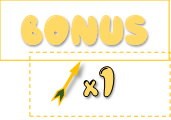
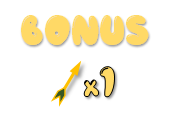
бонусы за уровень

diff --git a/index.js b/index.js
@@ -8,10 +8,12 @@ g_process=function(){};
 var path=[[-10,170],[120,170],[190,200],[215,240],[180,270],[90,280],[50,330],[40,410],[40,540],[70,630],[140,680],[220,700],[295,700],[360,670],[400,620],[420,550],[430,420],[410,310],[350,270],[300,260],[280,235],[290,200],[350,170],[470,170]];
 
 
-var l_info=[[10,20,3,0],[12,22,3,0.02],[14,24,3,0.04],[16,26,3,0.06],[18,28,3,0.08],[20,30,3,0.1],[22,32,3,0.12],[24,34,3,0.14],[26,36,3,0.16],[28,38,3,0.18],[30,40,3,0.2],[32,42,3,0.22],[34,44,3,0.24],[36,46,3,0.26],[38,48,3,0.28],[40,50,3,0.3],[42,52,3,0.32],[44,54,3,0.34],[46,56,3,0.36],[48,58,3,0.38],[50,60,3,0.4],[52,62,3,0.42],[54,64,3,0.44],[56,66,3,0.46],[58,68,3,0.48]];
+var l_info=[[10,20,3,0],[12,21,3,0.02],[14,22,3,0.04],[16,23,3,0.06],[18,24,3,0.08],[20,25,3,0.1],[22,26,3,0.12],[24,27,3,0.14],[26,28,3,0.16],[28,29,3,0.18],[30,30,3,0.2],[32,31,3,0.22],[34,32,3,0.24],[36,33,3,0.26],[38,34,3,0.28],[40,35,3,0.3],[42,36,3,0.32],[44,37,3,0.34],[46,38,3,0.36],[48,39,3,0.38],[50,40,3,0.4],[52,41,3,0.42],[54,42,3,0.44],[56,43,3,0.46],[58,44,3,0.48]];
 
 
 
+//это бонусы стрел после уровня
+arrows_as_bonus=0;
 
 //сосотяния шара
 b_simple=0;
@@ -582,8 +584,8 @@ class screen_1_class
 			
 		}
 				
-
-		
+				
+				
 		//секундная проверка событий
 		this.sec_check=1;				
 	
@@ -610,7 +612,7 @@ class screen_1_class
 		this.baloons_cnt=l_info[level][0];
 		
 		//устанавливаем начальное количество стрелки
-		this.arrows_cnt=l_info[level][1];
+		this.arrows_cnt=l_info[level][1]+arrows_as_bonus;
 		objects.arrows_info_text.text="X"+this.arrows_cnt
 		
 		//вероятность кирпичного шара
@@ -934,38 +936,58 @@ class screen_1_class
 			level++;	
 			objects.win.visible=true;
 			
-				objects.bonus_10.visible=true;				
-				c.add_elastic(objects.bonus_10,-50,objects.bonus_10.sx,0.01);
+
 			
 			
-			if(this.passed_baloons<3)
+			if(this.passed_baloons==2)
 			{
 				objects.star1.visible=true;				
 				c.add_bounce(objects.star1,-50,objects.star1.sy,0.02);
+				
+				objects.bonus.visible=true;				
+				objects.bonus.texture=game_res.resources['bonus_1'].texture;
+				c.add_elastic(objects.bonus,-50,objects.bonus.sx,0.01);
+				
+				arrows_as_bonus=1;
 			}			
 			
-			if(this.passed_baloons<2)
+			if(this.passed_baloons==1)
 			{
+				objects.star1.visible=true;				
+				c.add_bounce(objects.star1,-50,objects.star1.sy,0.02);
+				
 				objects.star2.visible=true;
 				c.add_bounce(objects.star2,-50,objects.star1.sy,0.015);
+				
+				objects.bonus.visible=true;				
+				objects.bonus.texture=game_res.resources['bonus_5'].texture;
+				c.add_elastic(objects.bonus,-50,objects.bonus.sx,0.01);
+				
+				arrows_as_bonus=5;
 			}			
 			
-			if(this.passed_baloons<1)
+			if(this.passed_baloons==0)
 			{
+				objects.star1.visible=true;				
+				c.add_bounce(objects.star1,-50,objects.star1.sy,0.02);
+				
+				objects.star2.visible=true;
+				c.add_bounce(objects.star2,-50,objects.star1.sy,0.015);
+				
 				objects.star3.visible=true;
 				c.add_bounce(objects.star3,-50,objects.star1.sy,0.01);
+				
+				objects.bonus.visible=true;				
+				objects.bonus.texture=game_res.resources['bonus_10'].texture;
+				c.add_elastic(objects.bonus,-50,objects.bonus.sx,0.01);
+				
+				arrows_as_bonus=10;
 			}				
 
 
 			this.init_parameters=false;
 		}
 		
-		
-		
-		
-		
-		
-
 		
 		//обновляем анимации
 		c.process();
